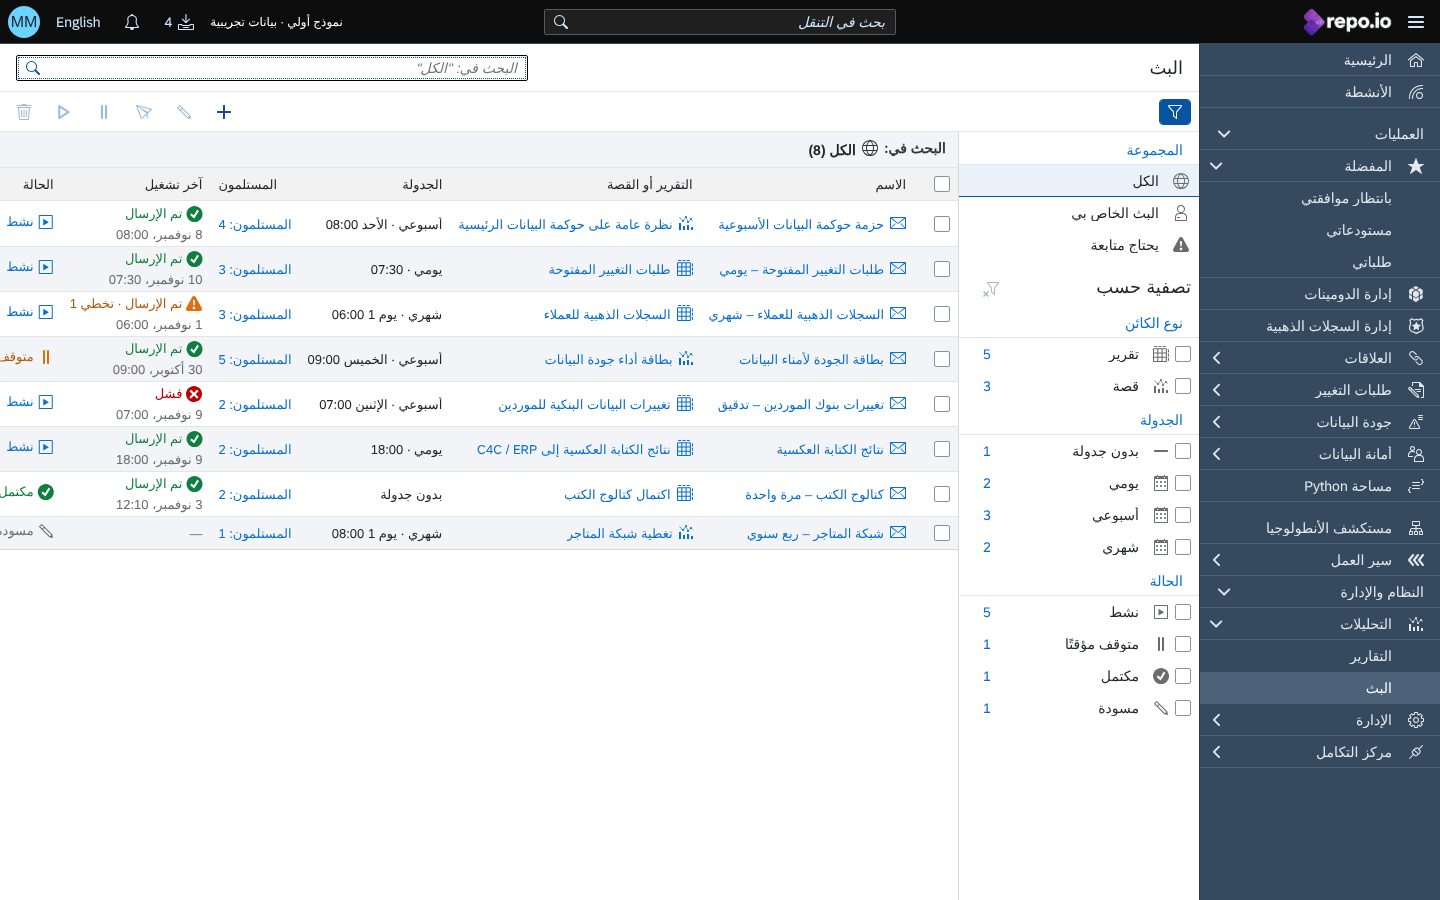
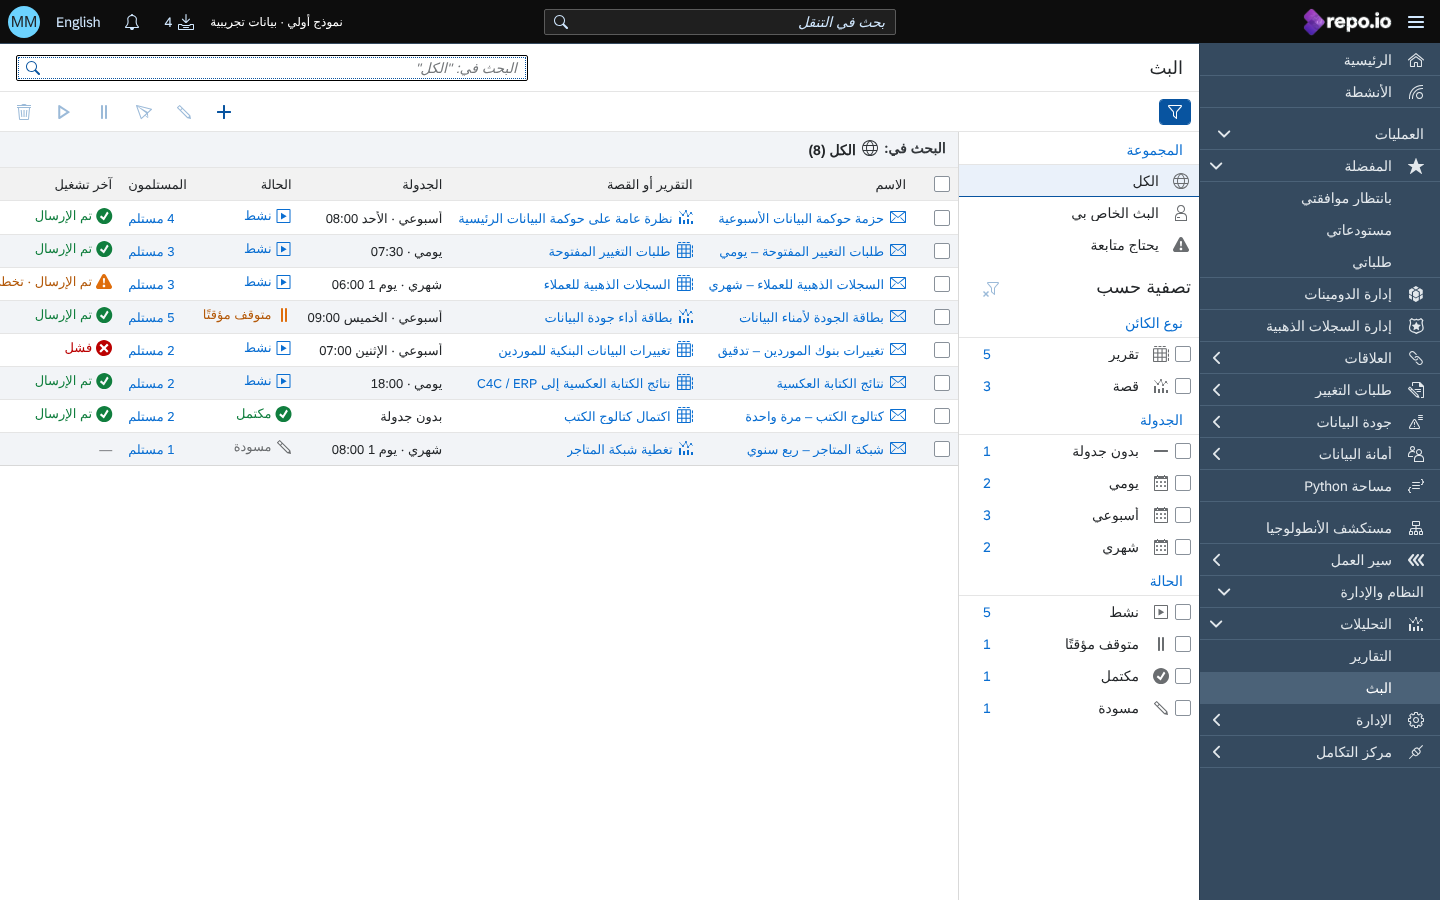
docs: analytics architecture (README §2.8, proposed); compact broadcasts table
- README §2.8: read path for reports / ALP / studio (Reports API, Query API,
  KPI catalog, Trino over governed views, server-side grants) and the
  broadcast run (Airflow dispatch, per-recipient rendering, export worker,
  mail adapter) with open decisions
- Broadcasts list: single-line rows, status next to schedule, last-run date
  in its own column on wide screens

Claude-Session: https://claude.ai/code/session_014MwTwj4qVcnTAy3XtzTwBt

diff --git a/repoio-ui/design-reference/openui5-prototype/webapp/css/style.css b/repoio-ui/design-reference/openui5-prototype/webapp/css/style.css
@@ -689,3 +689,7 @@ html[dir="rtl"] .repoioJdArrow { transform: scaleX(-1); }
 .repoioStBDim { border-inline-start-color: #5fae7c; }
 .repoioStBAdd.sapMBtn, .repoioStBAdd.sapMMenuBtn { align-self: flex-start; width: auto !important; margin-top: 0.125rem; }
 .repoioStBPals { display: flex; gap: 0.25rem; }
+.repoioBcLast { display: flex; gap: 0.5rem; white-space: nowrap; }
+.repoioBcLast .sapMObjStatus { flex: none; }
+.repoioBcLast .sapMObjStatus, .repoioBcLast .sapMText { line-height: 1.5rem; }
+.repoioBcLast .sapMObjStatusText, .repoioBcLast .sapMObjStatusIcon { vertical-align: middle; }

diff --git a/README.md b/README.md
@@ -392,6 +392,134 @@ trail.**
   personal, actionable channel (approval needed, request rejected).
   Nothing in Feeds can mutate master data, requests or workflows.
 
+### 2.8 Analytics — reports, studio and broadcasts
+
+> **Status: proposed** (prototype screens exist under
+> `repoio-ui/design-reference/openui5-prototype`, journey J14). The
+> components marked *open* below need an ADR before implementation.
+
+**Decision: reports and stories are governed definitions in the
+control plane; their data is read from the data plane through Trino
+with the caller's own grants; broadcasts are scheduled by Airflow and
+rendered per recipient. The UI sends a definition, never SQL, and
+never defines a measure.**
+
+#### Reports list, analytical list report and Analytics studio (read path)
+
+```
+┌──────────── repoio-ui (OpenUI5) ────────────┐
+│  Reports list   ·   Analytical list (ALP)   │
+│  Analytics studio (story designer, Builder) │
+│  charts: EChart wrapper (Apache ECharts)    │
+└──────┬──────────────────────────┬───────────┘
+       │ definitions (CRUD,       │ query request:
+       │ versions, variants)      │ {report/tile, measure ids, dimension,
+       │                          │  filters, page} — never SQL
+       ▼                          ▼
+┌──────────────────────── repoio-service (Dropwizard) ────────────────────────┐
+│  Reports API                          Query API                             │
+│  · reports, report_versions,          · resolve measure ids → KPI catalog   │
+│    variants, favorites                · compile to SQL over the report's    │
+│  · save on a published story            governed view                       │
+│    = new draft version                · inject the caller's role→domain     │
+│  · retire → pauses its broadcasts       grant predicate (row filter)        │
+│                                       · aggregate in the engine, page rows  │
+│  KPI catalog (read-only to the UI)    · cache per (definition version,      │
+│  · measure formula, unit, owner         grant set), short TTL               │
+└──────┬───────────────────────────────────────┬──────────────────────────────┘
+       │ JDBI3                                 │ JDBC
+       ▼                                       ▼
+┌──────────────── Postgres 15 ───────────┐   ┌──────────── Trino ─────────────┐
+│ control plane:                         │   │ governed views over Iceberg:   │
+│ reports · report_versions · variants   │   │ golden.<entity> · dq.results · │
+│ kpi_catalog · report_favorites         │   │ cr.change_requests · matched.* │
+│ broadcasts · broadcast_runs (below)    │   │ wb.writeback_log · ops.*       │
+└────────────────────────────────────────┘   └───────────────┬────────────────┘
+                                                             ▼
+                                                   Iceberg tables (data plane)
+```
+
+- **Definitions** (layout, tiles, chart type, measure ids, dimension,
+  filters, variants) are versioned control-plane rows. Publishing a
+  story or report follows the same draft → published → retired
+  lifecycle as workflows.
+- **Measures come only from the KPI catalog.** The studio and the ALP
+  pick measure ids; the formula, unit and owner live in the catalog.
+  A screen that computes a KPI locally is wrong (CLAUDE.md §6.6).
+- **Authorization is server-side.** The Query API adds the caller's
+  role→domain grants to every query; the list API filters reports the
+  same way. Hiding rows in the UI is presentation, not authorization.
+- **Read only.** Nothing in Analytics writes master data, requests or
+  workflows. Golden records are never copied into Postgres for
+  reporting (CLAUDE.md §6.12).
+
+#### Broadcasts (scheduled distribution)
+
+```
+┌──── repoio-ui: Broadcasts page ────┐
+│ list · Start now · Pause · Resume  │
+│ new broadcast dialog               │
+└──────────────┬─────────────────────┘
+               │ REST
+               ▼
+┌──────── repoio-service: Broadcasts API ────────┐      ┌──── Postgres ─────────────┐
+│ CRUD · validate recipients against grants      │─────▶│ broadcasts                │
+│ (warn: no grant on the report's domain)        │      │ broadcast_recipients      │
+│ Start now → enqueue a run                      │      │ broadcast_runs (per run + │
+└──────────────┬─────────────────────────────────┘      │  per-recipient outcome)   │
+               │ due schedules (cron, Africa/Cairo)     └───────────────────────────┘
+               ▼
+┌──── Airflow DAG broadcast_dispatch (repoio-airflow-apis) ────┐
+│ picks due broadcasts → calls the service to start a run      │
+│ idempotency key = broadcast id + schedule slot               │
+└──────────────┬───────────────────────────────────────────────┘
+               ▼
+┌──── repoio-service: run (one per recipient) ─────────────────┐
+│ 1. resolve the recipient's grants (Entra ID groups → domains)│
+│    no grant on the report's domain → outcome "skipped"       │
+│ 2. same Query API path, evaluated AS THE RECIPIENT           │
+│    (no shared broadcast identity, no owner's grants)         │
+└──────────────┬───────────────────────────────────────────────┘
+               ▼
+┌──── Export worker (open) ────────────────────┐
+│ XLSX · CSV · PDF (stories: PDF · PPTX) · ZIP │
+│ isolated, no inbound network, platform code  │
+└──────────────┬───────────────────────────────┘
+               │ short-lived private file (object storage, open)
+               ▼
+┌──── Mail adapter (open: SMTP relay or Microsoft Graph) ──────┐
+│ subject + message + attachment + console link                │
+│ the link requires sign-in; no anonymous "view" link          │
+└──────────────┬───────────────────────────────────────────────┘
+               ▼
+ broadcast_runs (sent / skipped / failed per recipient) → audit trail
+ + activity read-model (§2.7) · failures retry at the next slot or
+   with Start now
+```
+
+- **Per-recipient rendering is the rule.** A broadcast never sends data
+  the recipient cannot see in the console; recipients without a grant
+  are skipped and reported in the run (list shows "Sent · N skipped").
+- **Scheduling uses Airflow**, which the platform already runs
+  (`repoio-airflow-apis`); no second scheduler. Pause / resume toggle
+  the schedule; a run that is in flight finishes.
+- **Secrets** for the mail channel are secret-store references, like
+  connection tokens (CLAUDE.md §6.13); hosts and senders are
+  environment placeholders until confirmed.
+
+**Open decisions (need an ADR before M-planning):**
+
+1. Export rendering: where charts are rendered for PDF / PPTX
+   (server-side ECharts in a Node worker vs. a Python renderer) and
+   whether it reuses the isolated worker runtime (`repoio-python-runtime`)
+   as a separate, platform-only pool.
+2. Mail channel: corporate SMTP relay vs. Microsoft Graph with an
+   Entra ID app registration; attachment size limit and the fallback
+   when a file is too large (ZIP, then link-only).
+3. Storage and retention of rendered files and of `broadcast_runs`.
+4. External recipients (outside Entra ID): proposed **not allowed**,
+   since they have no grants to evaluate.
+
 ## 3. Entity coverage (Phase 1)
 
 | Entity              | Owner (Nahdet Misr) | Golden record uses                     |
@@ -473,7 +601,7 @@ repoio-k8s-operator/    CRDs: Repository, Pipeline, IcebergCatalog
 repoio-integration-tests/   Cross-module e2e
 repoio-shaded-deps/     Shaded Elasticsearch / OpenSearch
 repoio-dist/            Assembly · Docker images · Helm
-repoio-airflow-apis/    Pull-ingest DAGs, DQ runs, housekeeping
+repoio-airflow-apis/    Pull-ingest DAGs, DQ runs, housekeeping, broadcast dispatch (proposed, §2.8)
 
 repoio-stream/          NEW · Spark Structured Streaming jobs (Scala/PySpark)
 repoio-catalog/         NEW · Iceberg REST catalog, table DDL, index config

diff --git a/docs/user-journey.md b/docs/user-journey.md
@@ -451,6 +451,8 @@ your domains"), not a blank page.
 
 ## J14 — Analyse & broadcast reports
 
+*Architecture: root README §2.8 (proposed).*
+
 1. A user opens **Analytics → Reports**: the same explorer layout as
    the workflows list (collections, facets for type / domain / status
    with counts, full-width table, Previous / Next paging). Only
